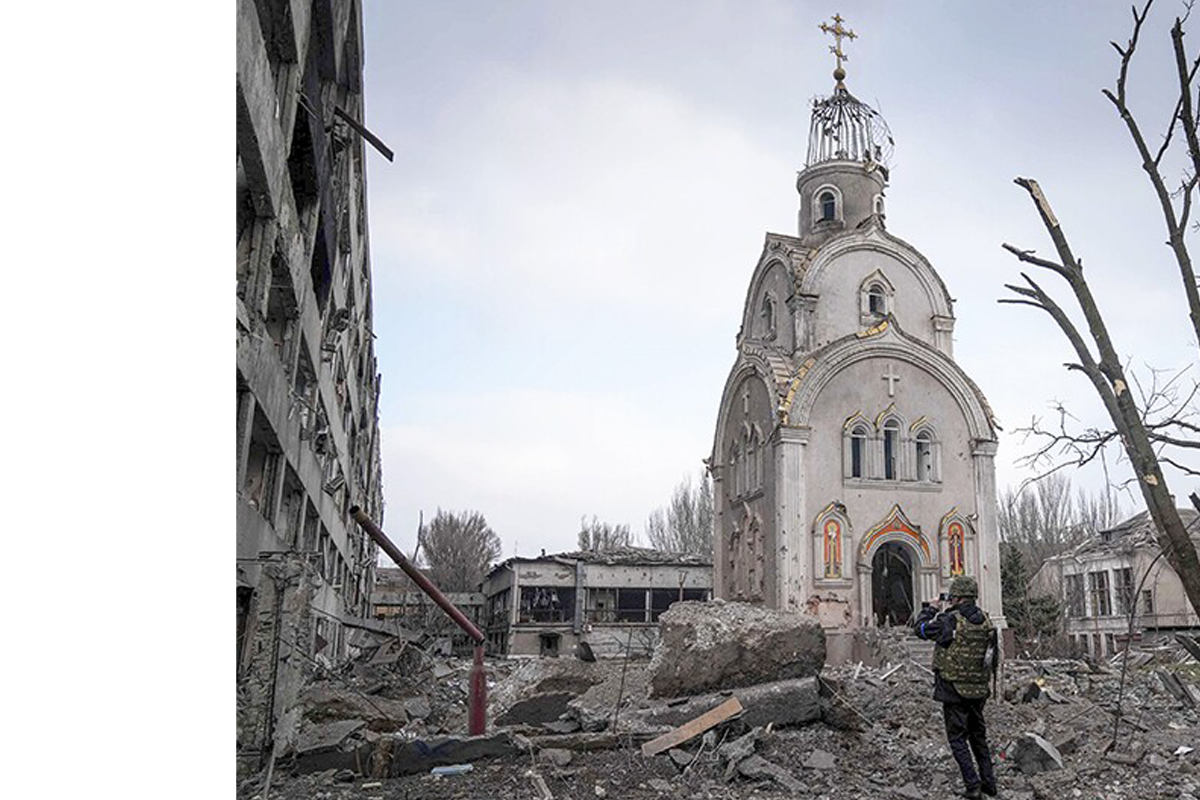
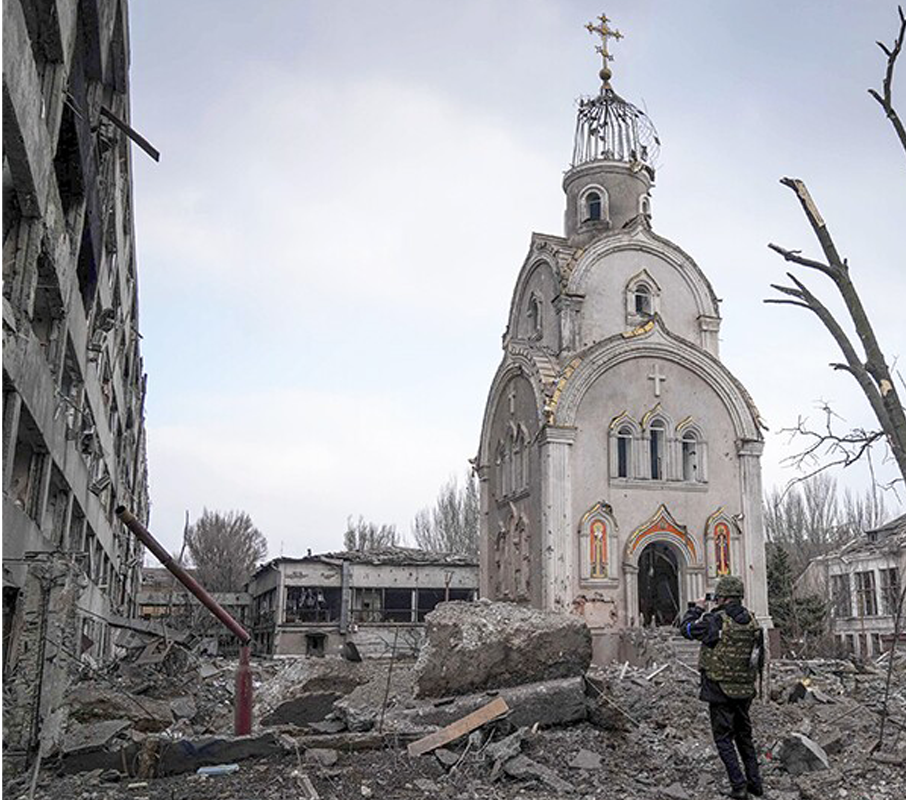
q

diff --git a/netart01.html b/netart01.html
@@ -15,10 +15,10 @@
             #church{
                 position: absolute;
                 height: 800px;
-                width: 1200px;
+                width: 909px;
                 z-index: 10;
                 top:0;
-                left:0;
+                right:0;
             }
             #thermobaric{
                 position: absolute;
@@ -51,7 +51,7 @@
     <body>
         <div id="container">
             <div id="church">
-                <img src="netartimages/church.png">
+                <img src="netartimages/church.png" width="95%">
             </div>
             <div id="thermobaric">
                 <img src="netartimages/thermobaric.png">
